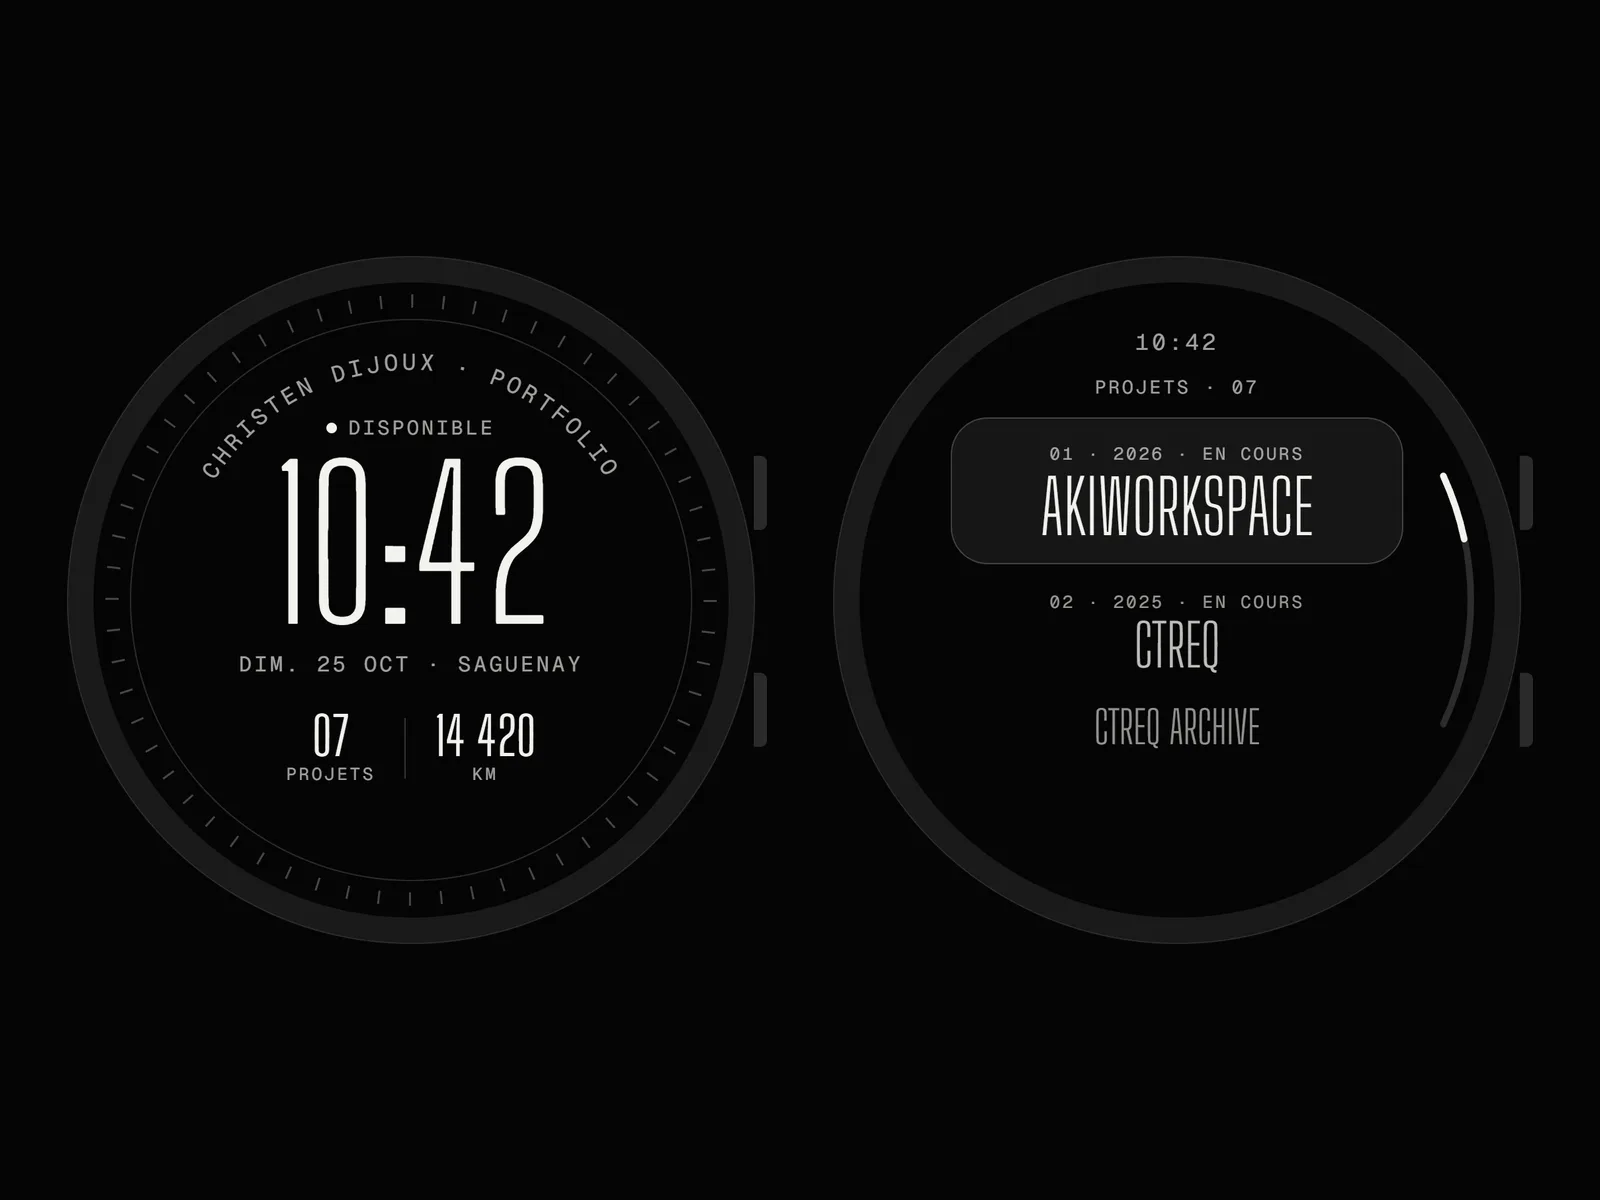
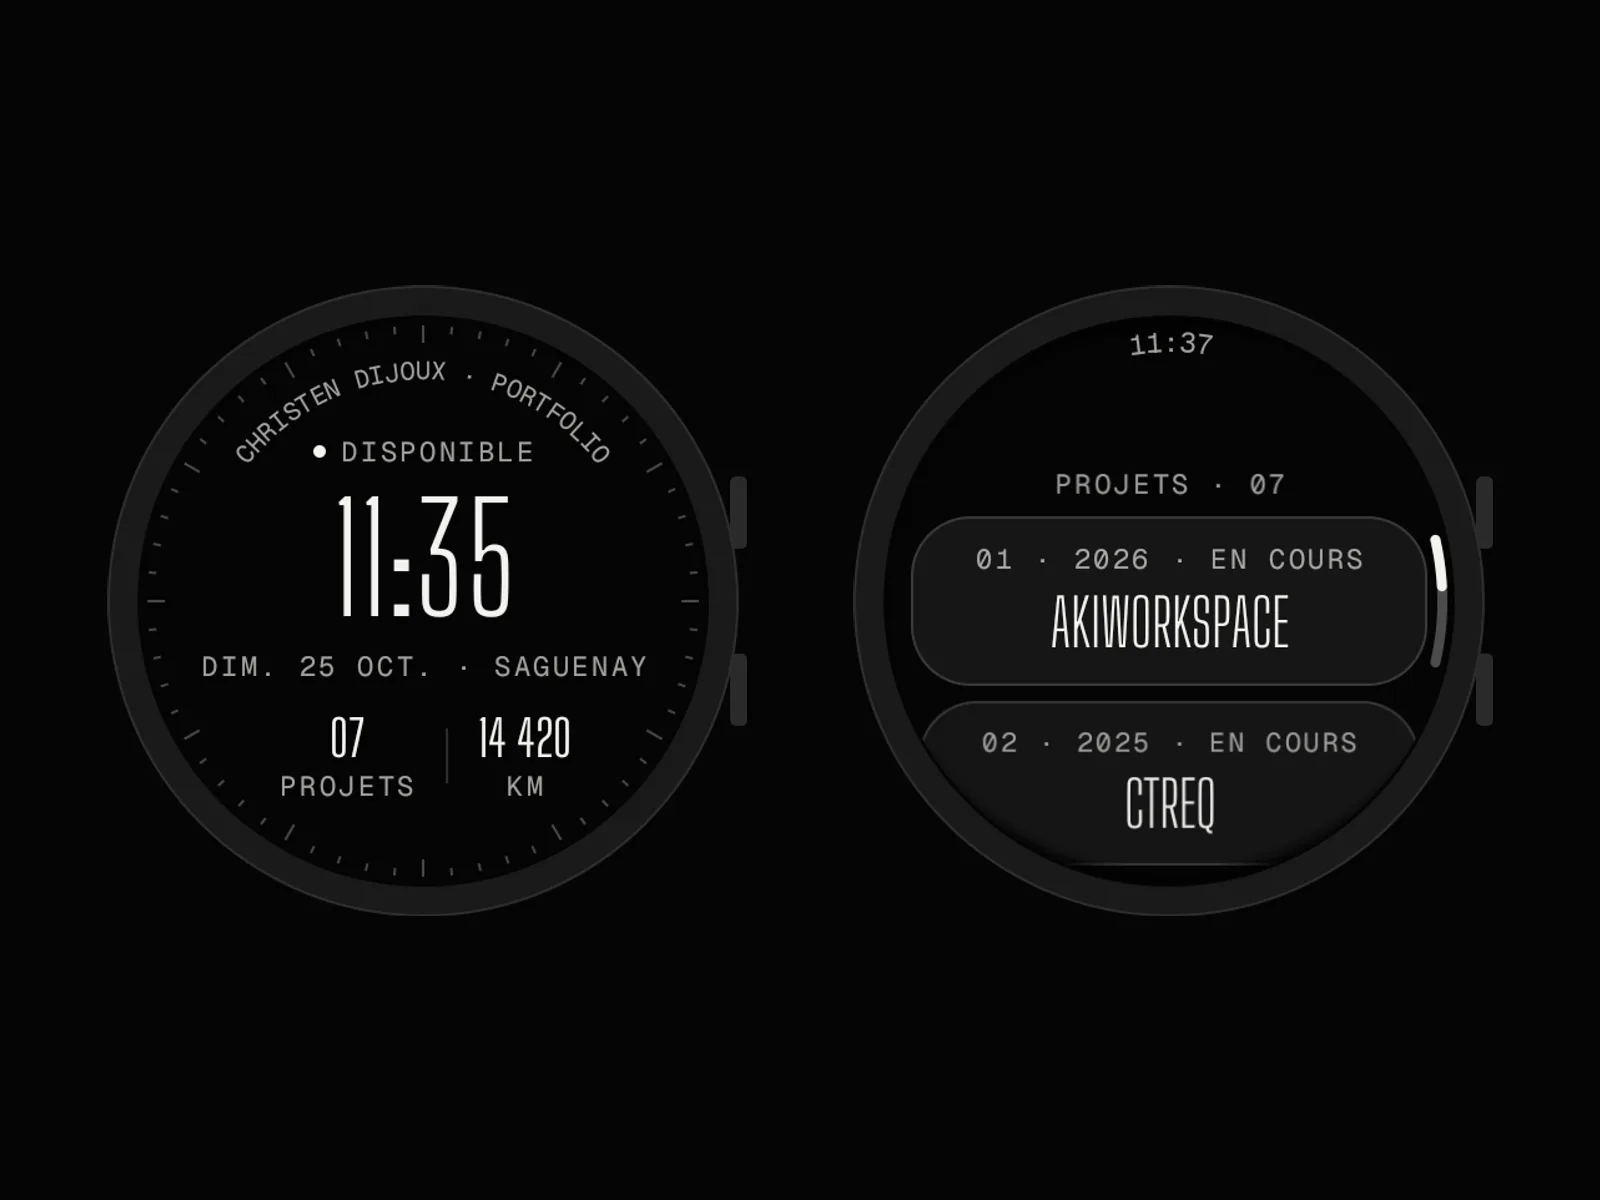
feat(projets): Portfolio Watch v0.1.0, captures de l'app réelle et textes à jour

diff --git a/src/data/customProjects.ts b/src/data/customProjects.ts
@@ -344,33 +344,36 @@ export const customProjects: CustomProject[] = [
     id: 'portfolio-watch',
     name: 'Portfolio Watch',
     title: 'Portfolio Watch - Version Galaxy Watch',
-    description: "Mon portfolio repensé pour un écran rond de 1,4 pouce : une app Wear OS en Kotlin et Jetpack Compose, pensée d'abord pour la Samsung Galaxy Watch. Projets, parcours et contact au poignet, en trois touches maximum.",
-    longDescription: "Portfolio Watch adapte l'identité du site (monochrome, éditoriale, typographie condensée) aux codes de Wear OS : heure en haut, listes centrées qui suivent la courbe de l'écran, bouton principal collé au bord, défilement à la lunette. Le projet commence par la conception : sept écrans maquettés au format rond 480 px (cadran, menu, projets, étude de cas, parcours, contact et le jeu des étoiles du site), avec une zone sûre centrale, des cibles tactiles de 48 dp minimum et un contraste d'au moins 4,5:1. Le développement suit en Kotlin et Jetpack Compose for Wear OS (Material 3), avec un cadran au format Watch Face Format et l'ouverture des études de cas sur le téléphone associé.",
+    description: 'Mon portfolio repensé pour un écran rond d\'un pouce et demi : une app Wear OS en Kotlin et Jetpack Compose qui tourne sur ma Galaxy Watch. Projets, parcours et contact au poignet, en trois touches au plus.',
+    longDescription: 'Portfolio Watch adapte l\'identité du site (monochrome, éditoriale, typographie condensée) aux codes de Wear OS : heure en haut qui s\'efface au défilement, listes qui suivent la courbe de l\'écran, défilement à la lunette, retour en glissant vers la droite. La version 0.1.0 est en ligne sur GitHub et fonctionne sur une vraie Galaxy Watch : un accueil façon cadran avec l\'heure en direct, le menu, les projets, chaque étude de cas à ouvrir en entier sur le téléphone, le parcours, le contact et le jeu des étoiles du site. L\'app est autonome (aucune app compagnon) et chaque push est compilé et analysé par GitHub Actions, qui produit l\'APK. Prochaines étapes : un cadran installable, une tuile « Disponibilité », la version anglaise et la publication sur le Google Play Store.',
     languages: ['Kotlin'],
     topics: ['wear-os', 'galaxy-watch', 'kotlin', 'jetpack-compose', 'smartwatch', 'ui-design', 'android'],
     image: '/assets/portfolio-watch.webp',
     codeUrl: 'https://github.com/Akiyo974/portfolio-watch',
     features: [
-      'Cadran : heure, disponibilité et deux complications (projets, kilomètres parcourus)',
+      'Accueil façon cadran : heure et date en direct, nom le long du bord, disponibilité, projets et kilomètres',
       'Menu numéroté, comme la navigation du site',
-      'Liste des projets qui s\'agrandit au centre de l\'écran',
-      'Études de cas résumées, à ouvrir sur le téléphone associé',
+      'Les projets du portfolio avec année et statut',
+      'Études de cas résumées, à ouvrir en entier sur le téléphone associé',
       'Parcours La Réunion → Saguenay tracé le long de la lunette',
       'Contact en un toucher : e-mail, appel, LinkedIn, GitHub',
-      'Jeu des étoiles du site, en version montre (20 s, anneau de temps)',
-      'Navigation Wear OS : bouton retour, glisser pour revenir, défilement à la lunette'
+      'Jeu des étoiles du site : 20 s, vibration à chaque touche, record gardé sur la montre',
+      'Navigation Wear OS : glisser pour revenir, défilement à la lunette',
+      'App autonome, sans app compagnon sur le téléphone',
+      'Build, lint et APK automatiques à chaque push (GitHub Actions)'
     ],
     challenges: [
-      'Faire tenir une identité éditoriale dans un cercle de 1,4 pouce',
+      'Faire tenir une identité éditoriale dans un cercle d\'un pouce et demi',
       'Garder le contenu dans la zone sûre centrale d\'un écran rond',
-      'Trois touches maximum pour atteindre n\'importe quelle information',
+      'Trois touches au plus pour atteindre n\'importe quelle information',
       'Texte et listes qui suivent la courbe de l\'écran',
-      'Cibles tactiles de 48 dp minimum et contraste d\'au moins 4,5:1',
-      'Passer de la montre au téléphone sans perdre le contexte'
+      'Cibles tactiles de 48 dp minimum',
+      'Passer de la montre au téléphone sans perdre le contexte',
+      'Embarquer les polices variables du site sans alourdir l\'app'
     ],
     technologies: {
-      frontend: ['Kotlin', 'Jetpack Compose for Wear OS', 'Material 3'],
-      tools: ['Horologist', 'Watch Face Format', 'Android Studio', 'Wear OS 3+']
+      frontend: ['Kotlin 2.1', 'Jetpack Compose for Wear OS', 'ScalingLazyColumn'],
+      tools: ['Wear Remote Interactions', 'Gradle', 'GitHub Actions', 'Wear OS 3+']
     },
     year: '2026',
     status: 'in-progress',

diff --git a/src/data/caseGallery.ts b/src/data/caseGallery.ts
@@ -18,9 +18,9 @@ export const caseGallery: Record<string, { file: string; alt: { fr: string; en: 
     { file: 'webana-04', alt: { fr: "Page « Histoire du katana »", en: '“History of the katana” page' } },
   ],
   'portfolio-watch': [
-    { file: 'portfolio-watch-01', alt: { fr: 'Portfolio en version montre : le cadran Galaxy Watch', en: 'Portfolio, watch edition: the Galaxy Watch face' } },
-    { file: 'portfolio-watch-02', alt: { fr: 'Menu, liste des projets et étude de cas sur écran rond', en: 'Menu, project list and case study on a round screen' } },
-    { file: 'portfolio-watch-03', alt: { fr: 'Parcours, contact et jeu des étoiles sur la montre', en: 'Journey, contact and star game on the watch' } },
+    { file: 'portfolio-watch-01', alt: { fr: 'Portfolio en version montre : bannière du projet', en: 'Portfolio, watch edition: project banner' } },
+    { file: 'portfolio-watch-02', alt: { fr: "Menu, projets et étude de cas dans l'app réelle", en: 'Menu, projects and case study in the real app' } },
+    { file: 'portfolio-watch-03', alt: { fr: 'Parcours, contact et partie du jeu des étoiles', en: 'Journey, contact and a star game round' } },
   ],
   akiworkspace: [
     { file: 'akiworkspace-01', alt: { fr: "Tableau de bord d'AkiWorkspace", en: 'AkiWorkspace dashboard' } },
